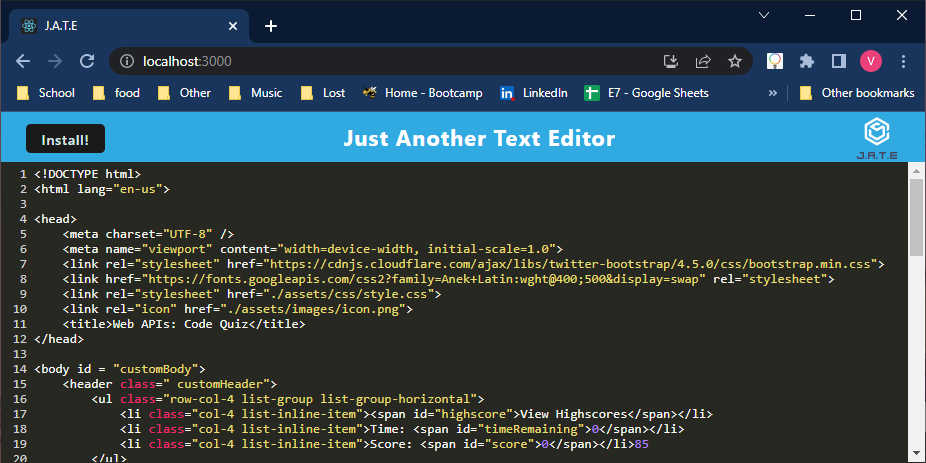
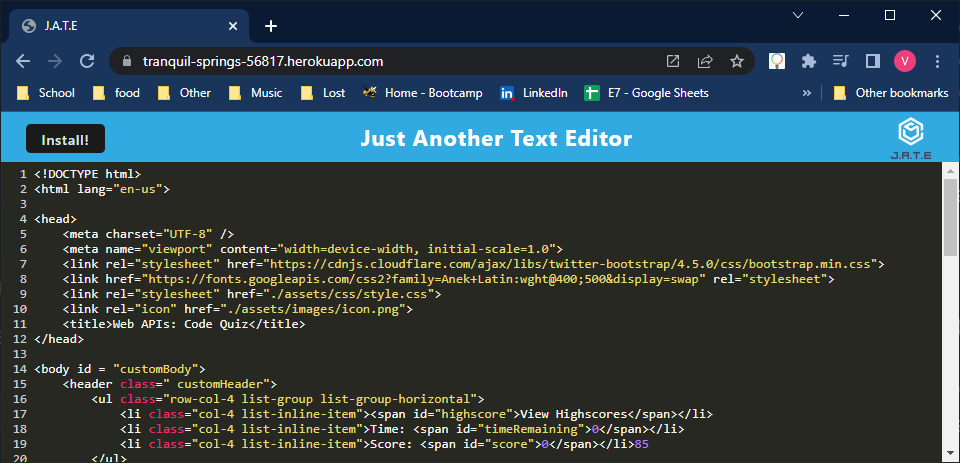
added preview photos and added README.md

diff --git a/README.md b/README.md
@@ -1,0 +1,56 @@
+# PWA-just-another-text-editor
+
+By Vincent Yang
+
+## Table of Contents
+
+* [Licensing](#licensing)
+* [Installation](#installation)
+* [Usage](#usage)
+* [Contribution](#contribution)
+* [Test](#test)
+* [Preview](#preview)
+* [Questions](#questions)
+* [Deployed App](#deployed-app)
+
+## Licensing 
+![License](https://img.shields.io/badge/license-GNU_GPL-yellow.svg)
+> PWA-just-another-text-editor is protected and licensed under the [GNU GPL](https://www.gnu.org/licenses/licenses.en.html#GPL) license.
+
+## Description
+
+This application builds a progressive web application which is a text editor for code. This application uses express to create routes, if-env, idb, and webpack to build our distributable app.
+  
+## Installation
+
+To install, clone this repository and then navigate to this applications root directory in your terminal. Here, we will run commands "```npm install```", then followed by "```npm run build```".
+
+## Usage
+
+Once the application has been installed, run command "```npm start```". After receiving feedback that the app is listening on port 3000, you can launch the application in your browser by navigating to URL **localhost:3000**. Once in the app, you can edit text in the text editor, but you can also install the PWA using the install button on the top left of the window.
+
+## Contribution
+
+None
+
+## Test
+
+> None
+
+## Preview
+Preview 1: App Launched in Browser
+![Preview 1: App launched in browser](./Assets/preview1.png)
+Preview 2: PWA Installed
+![Preview 2: PWA installed](./Assets/preview2.png)
+
+## Deployed App
+
+This app has been deployed at the following heroku URL:
+
+https://tranquil-springs-56817.herokuapp.com/
+
+## Question
+
+Thank you very much for your time and please reach out to me at vyang1014888@gmail.com with any questions or issues.
+
+You can find more of my work on my GitHub page at https://github.com/vyang14/.
